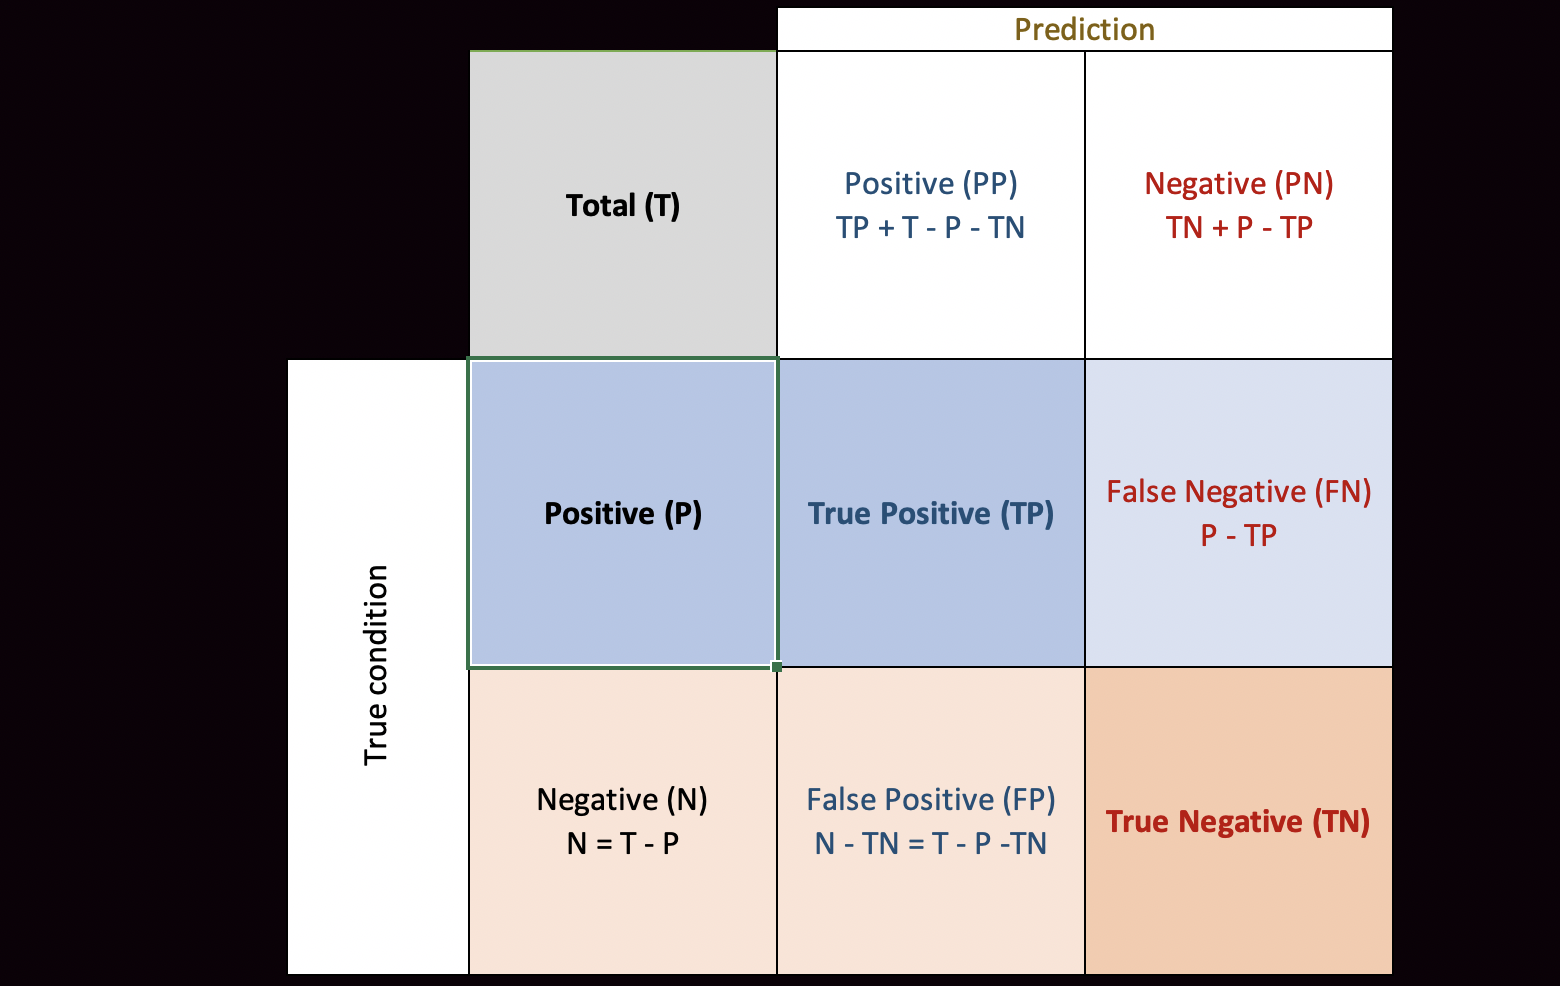
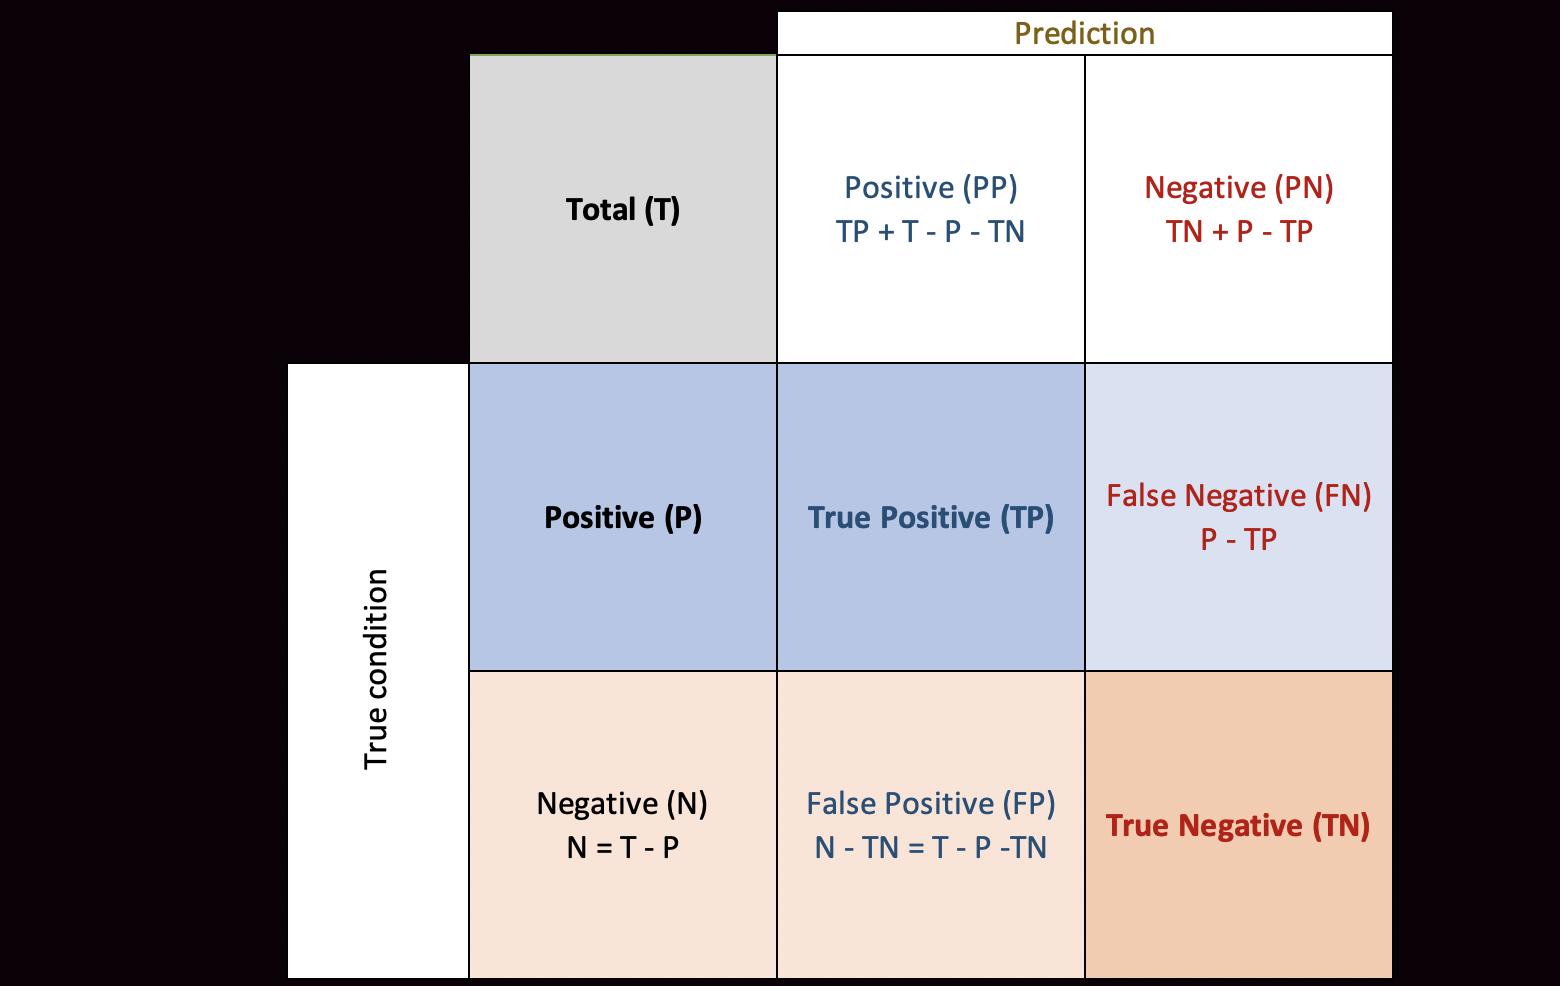
updating a new image

diff --git a/pages/11c_conventions.py b/pages/11c_conventions.py
@@ -3,11 +3,11 @@ import streamlit as st
 md = """
 So we work with the following convention for confusion matrices:
 
-<img src="https://github.com/sebastiandres/ml_edu_confusion_matrix/blob/main/images/confusion_matrix.png?raw=true" alt="Conventions" width="700">
+<img src="https://github.com/sebastiandres/ml_edu_confusion_matrix/blob/main/images/confusion_matrix1.png?raw=true" alt="Conventions" width="700">
 
-The true condition is fixed. You cannot change reality (at least for now, Neo). 
+The true condition is fixed. What's positive is positive and what's negative is negative. You cannot change reality (at least for now, Neo). 
 So the total of Positive $P$ and Negative $N$, and the total number of patients $T$ is fixed. 
-Only your predictions can change, altering the true positive, true negative, false positive, and false negative. 
+Only your predictions can change, altering the true positive, true negative, false positive, and false negative.
 
 Therefore, any confusion matrix can be completely reduced to 4 variables:
 * $T$: total number of cases
@@ -21,10 +21,9 @@ Having fixed those, we can always obtain the other variables:
 * $FN = N - TN$: number of false negative cases
 * $PN = FP + FN$: predicted number of negative (false) cases
 * $PP = TP + FP$: predicted number of positive (true) cases
-"""
-st.markdown(md, unsafe_allow_html=True)
 
-md = """
+<img src="https://github.com/sebastiandres/ml_edu_confusion_matrix/blob/main/images/confusion_matrix2.png?raw=true" alt="Conventions" width="700">
+
 From this, we get that true positive, true negative, 
 false positive and false negative have specific trivial boundaries:
 
